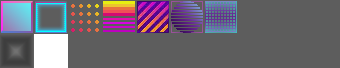
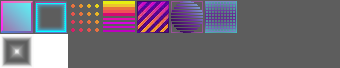
Change the backplate in the game

Changed region(s): [[0.0, 0.5, 0.1176, 1.0]]

diff --git a/core/src/lando/systems/ld47/entities/GameBoard.java b/core/src/lando/systems/ld47/entities/GameBoard.java
@@ -5,17 +5,22 @@ import com.badlogic.gdx.controllers.Controllers;
 import com.badlogic.gdx.graphics.*;
 import com.badlogic.gdx.graphics.g2d.SpriteBatch;
 import com.badlogic.gdx.graphics.glutils.FrameBuffer;
+import com.badlogic.gdx.graphics.glutils.ShaderProgram;
 import com.badlogic.gdx.math.Rectangle;
 import com.badlogic.gdx.math.Vector2;
+import com.badlogic.gdx.math.Vector3;
 import com.badlogic.gdx.utils.Array;
 import com.badlogic.gdx.utils.OrderedSet;
 import lando.systems.ld47.Audio;
 import lando.systems.ld47.GameState;
 import lando.systems.ld47.input.PlayerInput;
+import lando.systems.ld47.utils.OrbitPointLight;
+import lando.systems.ld47.utils.PointLight;
 
 public class GameBoard {
     public static int TILESWIDE = 10;
     public static int TILESHIGH = 20;
+    public static int MAX_POINT_LIGHTS = 5;
 
     public final GameState gameState;
     private final PlayerInput playerInput;
@@ -35,6 +40,12 @@ public class GameBoard {
     int blocksToFallTilRemove;
     private boolean previousBlockCleared = false;
     PerspectiveCamera boardCam;
+    private Color ambientColor = new Color(.3f, .3f, .3f, 1f);
+    private Color directionColor = new Color(.6f, .6f, .6f, 1f);
+    private Vector3 directionLight = new Vector3(.1f, -.5f, .5f).nor();
+
+    public PointLight[] pointLights;
+    private GameBackPlate backPlate;
 
     public GameBoard(GameState gameState) {
         this.gameState = gameState;
@@ -61,6 +72,14 @@ public class GameBoard {
         boardCam.lookAt(5f, 8, 0);
         boardCam.update();
 
+        backPlate = new GameBackPlate();
+
+        pointLights = new PointLight[MAX_POINT_LIGHTS];
+        pointLights[0] = new OrbitPointLight(0, new Vector3(0, 0, 15), new Color(.6f, 0, .6f, 1f), new Vector3(.5f, .5f, 0));
+        pointLights[1] = new OrbitPointLight(1, new Vector3(0, 0, -15), new Color(0f, .6f, .6f, 1f), new Vector3(-.5f, .5f, 0f));
+        pointLights[2] = new OrbitPointLight(2, new Vector3(-15, 0, 0), new Color(.6f, .6f, 0f, 1f), new Vector3(0, 1, 0));
+        pointLights[3] = new PointLight(3, new Vector3(-30, 10, 20), new Color(.3f, .3f, .3f, 1f));
+        pointLights[4] = new PointLight(4, new Vector3(-30, 10, 20), new Color(.3f, .3f, .3f, 1f));
     }
 
     // this happens in an update loop, so it's cool
@@ -90,6 +109,11 @@ public class GameBoard {
 
     public void update(float dt) {
         Tetrad.GLOBAL_ANIM += dt;
+
+        for (PointLight light : pointLights) {
+            light.update(dt);
+        }
+        backPlate.update(dt);
 
         for (int i = tetrads.size - 1; i >= 0; i--) {
             Tetrad tetrad = tetrads.get(i);
@@ -190,6 +214,7 @@ public class GameBoard {
     }
 
 
+
     public void render(SpriteBatch batch) {
 
 
@@ -200,21 +225,35 @@ public class GameBoard {
 
         gameFB.begin();
         Gdx.gl.glClearColor(0, 0, 0, 0);
-        Gdx.gl.glClear(GL20.GL_COLOR_BUFFER_BIT);
-        Gdx.gl.glClear(GL20.GL_DEPTH_BUFFER_BIT);
-        Gdx.gl.glEnable(GL20.GL_BLEND);
-
-        batch.setProjectionMatrix(boardCam.combined);
-        batch.begin();
-        batch.setColor(1f, 1f, 1f, .8f);
-        batch.draw(gameState.assets.gameBoardTexture, 0, 0, TILESWIDE, TILESHIGH);
-        batch.setColor(Color.WHITE);
-        batch.end();
-
+        Gdx.gl.glClear(GL20.GL_COLOR_BUFFER_BIT | GL20.GL_DEPTH_BUFFER_BIT | (Gdx.graphics.getBufferFormat().coverageSampling?GL20.GL_COVERAGE_BUFFER_BIT_NV:0));
         Gdx.gl.glEnable(GL20.GL_BLEND);
         Gdx.gl.glEnable(GL20.GL_DEPTH_TEST);
+
+        ShaderProgram shader = gameState.gameScreen.assets.boardShader;
+        shader.bind();
+        shader.setUniformMatrix("u_projTrans", boardCam.combined);
+        shader.setUniformf("u_ambient", ambientColor);
+        shader.setUniformf("u_direction_dir", directionLight);
+        shader.setUniformf("u_direction_color", directionColor);
+        for(PointLight light : pointLights){
+            light.addToShader(shader);
+        }
+        backPlate.renderMesh(shader);
+
+
+
+        gameState.gameScreen.assets.blockShader.bind();
+        gameState.gameScreen.assets.blockShader.setUniformMatrix("u_projTrans", boardCam.combined);
         gameState.gameScreen.assets.blockShader.setUniformi("u_texture", 0);
         gameState.gameScreen.assets.blockTextures.bind(0);
+
+
+        gameState.gameScreen.assets.blockShader.setUniformf("u_ambient", ambientColor);
+        gameState.gameScreen.assets.blockShader.setUniformf("u_direction_dir", directionLight);
+        gameState.gameScreen.assets.blockShader.setUniformf("u_direction_color", directionColor);
+        for(PointLight light : pointLights){
+            light.addToShader(gameState.gameScreen.assets.blockShader);
+        }
 
         for (Tetrad tetrad : tetrads) {
             tetrad.renderModels(boardCam);

diff --git a/core/src/lando/systems/ld47/entities/GameBackPlate.java b/core/src/lando/systems/ld47/entities/GameBackPlate.java
@@ -1,0 +1,110 @@
+package lando.systems.ld47.entities;
+
+import com.badlogic.gdx.graphics.GL20;
+import com.badlogic.gdx.graphics.Mesh;
+import com.badlogic.gdx.graphics.VertexAttribute;
+import com.badlogic.gdx.graphics.VertexAttributes;
+import com.badlogic.gdx.graphics.glutils.ShaderProgram;
+
+public class GameBackPlate {
+
+    // Mesh things
+    private static final int NUM_COMPONENTS_POSITION = 3;
+    private static final int NUM_COMPONENTS_NORMAL = 3;
+    private static final int NUM_COMPONENTS_TEXTURE = 2;
+    private static final int NUM_COMPONENTS_PER_VERTEX = NUM_COMPONENTS_POSITION + NUM_COMPONENTS_TEXTURE + NUM_COMPONENTS_NORMAL;
+    private static final int MAX_TRIANGLES = 1000;
+    private static final int MAX_NUM_VERTICES = MAX_TRIANGLES * 3;
+    private Mesh mesh;
+    private float[] vertices;
+    private int verticesIndex;
+
+    private float accum = 0;
+
+    public GameBackPlate () {
+        this.mesh = new Mesh(true, MAX_NUM_VERTICES, 0,
+                new VertexAttribute(VertexAttributes.Usage.Position,           NUM_COMPONENTS_POSITION, "a_position"),
+                new VertexAttribute(VertexAttributes.Usage.Normal,        NUM_COMPONENTS_NORMAL, "a_normal"),
+                new VertexAttribute(VertexAttributes.Usage.TextureCoordinates, NUM_COMPONENTS_TEXTURE,  "a_texCoord0")
+        );
+
+        this.vertices = new float[MAX_NUM_VERTICES * NUM_COMPONENTS_PER_VERTEX];
+        verticesIndex = 0;
+        buildMesh();
+    }
+
+    public void buildMesh() {
+        // BL
+        vertices[verticesIndex++] = 0;
+        vertices[verticesIndex++] = 0;
+        vertices[verticesIndex++] = 0;
+
+        vertices[verticesIndex++] = 0;
+        vertices[verticesIndex++] = 0;
+        vertices[verticesIndex++] = 1;
+
+        vertices[verticesIndex++] = 0;
+        vertices[verticesIndex++] = 1;
+
+        // UL
+        vertices[verticesIndex++] = 0;
+        vertices[verticesIndex++] = GameBoard.TILESHIGH;
+        vertices[verticesIndex++] = 0;
+        vertices[verticesIndex++] = 0;
+        vertices[verticesIndex++] = 0;
+        vertices[verticesIndex++] = 1;
+        vertices[verticesIndex++] = 0;
+        vertices[verticesIndex++] = 0;
+
+        // BR
+        vertices[verticesIndex++] = GameBoard.TILESWIDE;
+        vertices[verticesIndex++] = 0;
+        vertices[verticesIndex++] = 0;
+        vertices[verticesIndex++] = 0;
+        vertices[verticesIndex++] = 0;
+        vertices[verticesIndex++] = 1;
+        vertices[verticesIndex++] = 1;
+        vertices[verticesIndex++] = 1;
+
+        //BR
+        vertices[verticesIndex++] = GameBoard.TILESWIDE;
+        vertices[verticesIndex++] = 0;
+        vertices[verticesIndex++] = 0;
+        vertices[verticesIndex++] = 0;
+        vertices[verticesIndex++] = 0;
+        vertices[verticesIndex++] = 1;
+        vertices[verticesIndex++] = 1;
+        vertices[verticesIndex++] = 1;
+
+        // UL
+        vertices[verticesIndex++] = 0;
+        vertices[verticesIndex++] = GameBoard.TILESHIGH;
+        vertices[verticesIndex++] = 0;
+        vertices[verticesIndex++] = 0;
+        vertices[verticesIndex++] = 0;
+        vertices[verticesIndex++] = 1;
+        vertices[verticesIndex++] = 0;
+        vertices[verticesIndex++] = 0;
+
+        // UR
+        vertices[verticesIndex++] = GameBoard.TILESWIDE;
+        vertices[verticesIndex++] = GameBoard.TILESHIGH;
+        vertices[verticesIndex++] = 0;
+        vertices[verticesIndex++] = 0;
+        vertices[verticesIndex++] = 0;
+        vertices[verticesIndex++] = 1;
+        vertices[verticesIndex++] = 1;
+        vertices[verticesIndex++] = 0;
+    }
+
+    public void update(float dt) {
+        accum += dt;
+    }
+
+    public void renderMesh(ShaderProgram shader){
+        shader.setUniformf("u_time", accum);
+        mesh.setVertices(vertices);
+        mesh.render(shader, GL20.GL_TRIANGLES, 0, verticesIndex/ NUM_COMPONENTS_PER_VERTEX);
+    }
+
+}

diff --git a/core/src/lando/systems/ld47/entities/Tetrad.java b/core/src/lando/systems/ld47/entities/Tetrad.java
@@ -168,7 +168,7 @@ public class Tetrad implements Pool.Poolable {
                 UL.set(x, y+1, z+blockHeight);
                 LR.set(x, y, z);
                 UR.set(x, y, z+blockHeight);
-                NOR.set(0,-1, 0);
+                NOR.set(-1,0, 0);
                 UV1.set(1/340f, 33/68f);
                 UV2.set(33f/340f, 67/68f);
                 break;
@@ -177,7 +177,7 @@ public class Tetrad implements Pool.Poolable {
                 UL.set(x+1, y, z+blockHeight);
                 LR.set(x+1, y+1, z);
                 UR.set(x+1, y+1, z+blockHeight);
-                NOR.set(0,1, 0);
+                NOR.set(1,0, 0);
                 UV1.set(1/340f, 33/68f);
                 UV2.set(33f/340f, 67/68f);
                 break;
@@ -187,7 +187,7 @@ public class Tetrad implements Pool.Poolable {
                 UL.set(x, y, z+blockHeight);
                 LR.set(x +1, y, z);
                 UR.set(x +1, y, z+blockHeight);
-                NOR.set(1,0, 0);
+                NOR.set(0,-1, 0);
                 UV1.set(1/340f, 33/68f);
                 UV2.set(33f/340f, 67/68f);
                 break;
@@ -211,14 +211,14 @@ public class Tetrad implements Pool.Poolable {
                 UL.set(x, y+1, z+blockHeight);
                 LR.set(x, y, z);
                 UR.set(x, y, z+blockHeight);
-                NOR.set(0,-1, 0);
+                NOR.set(-1,0, 0);
                 break;
             case RIGHT:
                 LL.set(x+1, y, z);
                 UL.set(x+1, y, z+blockHeight);
                 LR.set(x+1, y+1, z);
                 UR.set(x+1, y+1, z+blockHeight);
-                NOR.set(0,1, 0);
+                NOR.set(1,0, 0);
                 break;
 
             case FRONT:
@@ -226,7 +226,7 @@ public class Tetrad implements Pool.Poolable {
                 UL.set(x, y, z+blockHeight);
                 LR.set(x + 1, y, z);
                 UR.set(x + 1, y, z+blockHeight);
-                NOR.set(1,0, 0);
+                NOR.set(0,-1, 0);
                 break;
         }
         UV1.set((1 + 34f)/340f, 35/68f);
@@ -317,11 +317,8 @@ public class Tetrad implements Pool.Poolable {
 
     public void renderModels(Camera camera) {
         ShaderProgram shader = game.assets.blockShader;
-        shader.bind();
-        shader.setUniformMatrix("u_projTrans", camera.combined);
         mesh.setVertices(vertices);
         mesh.render(shader, GL20.GL_TRIANGLES, 0, verticesIndex/ NUM_COMPONENTS_PER_VERTEX);
-
     }
 
 

diff --git a/core/src/lando/systems/ld47/utils/PointLight.java b/core/src/lando/systems/ld47/utils/PointLight.java
@@ -1,0 +1,39 @@
+package lando.systems.ld47.utils;
+
+import com.badlogic.gdx.graphics.Color;
+import com.badlogic.gdx.graphics.glutils.ShaderProgram;
+import com.badlogic.gdx.math.Vector3;
+
+public class PointLight {
+
+    private int index;
+    public Vector3 pos;
+    public Color color;
+    public float falloff;
+    String uniformPos;
+    String uniformFalloff;
+    String uniformColor;
+
+    public PointLight (int index, Vector3 pos, Color color) {
+        this.pos = new Vector3(pos);
+        this.color = new Color(color);
+        falloff = .5f;
+        this.index = index;
+        uniformPos = "u_pointLights["+index+"].position";
+        uniformFalloff = "u_pointLights["+index+"].falloff";
+        uniformColor = "u_pointLights["+index+"].color";
+    }
+
+    public void update(float dt) {
+
+    }
+
+    public void addToShader(ShaderProgram shader) {
+        shader.setUniformf(uniformPos, pos);
+        shader.setUniformf(uniformFalloff, falloff);
+        shader.setUniformf(uniformColor, color);
+    }
+
+
+
+}

diff --git a/core/src/lando/systems/ld47/utils/OrbitPointLight.java b/core/src/lando/systems/ld47/utils/OrbitPointLight.java
@@ -1,0 +1,26 @@
+package lando.systems.ld47.utils;
+
+import com.badlogic.gdx.graphics.Color;
+import com.badlogic.gdx.math.Vector3;
+
+public class OrbitPointLight extends PointLight{
+
+    Vector3 axis;
+    float accum;
+    Vector3 initialPos;
+
+    public OrbitPointLight(int index, Vector3 pos, Color color, Vector3 axis) {
+        super(index, pos, color);
+        this.axis = axis;
+        accum = 0;
+        this.initialPos = new Vector3(pos);
+        update(0);
+    }
+
+    @Override
+    public void update(float dt) {
+        super.update(dt);
+        accum += dt;
+        pos.set(this.initialPos).rotateRad(axis, accum).add(5, 10, 0);
+    }
+}

diff --git a/core/src/lando/systems/ld47/Assets.java b/core/src/lando/systems/ld47/Assets.java
@@ -63,6 +63,7 @@ public class Assets implements Disposable {
     public ShaderProgram cityShader2;
 
     public ShaderProgram blockShader;
+    public ShaderProgram boardShader;
 
     // audio
     public Sound sampleSound;
@@ -150,6 +151,8 @@ public class Assets implements Disposable {
         cityShader = loadShader("shaders/standard.vert", "shaders/city_descent.frag");
         cityShader2 = loadShader("shaders/standard.vert", "shaders/city3.frag");
         blockShader = loadShader("shaders/standard3d.vert", "shaders/cube.frag");
+        boardShader = loadShader("shaders/board.vert", "shaders/board.frag");
+
 
         loadAudio();
         return 1;

diff --git a/desktop/src/lando/systems/ld47/desktop/DesktopLauncher.java b/desktop/src/lando/systems/ld47/desktop/DesktopLauncher.java
@@ -11,7 +11,7 @@ public class DesktopLauncher {
 		config.setTitle(Config.title);
 		config.setWindowedMode(Config.windowWidth, Config.windowHeight);
 		config.setResizable(Config.resizable);
-		config.setBackBufferConfig(8,8,8,8,16,0,2);
+		config.setBackBufferConfig(8,8,8,8,16,0,16);
 		new Lwjgl3Application(new Game(), config);
 	}
 }
